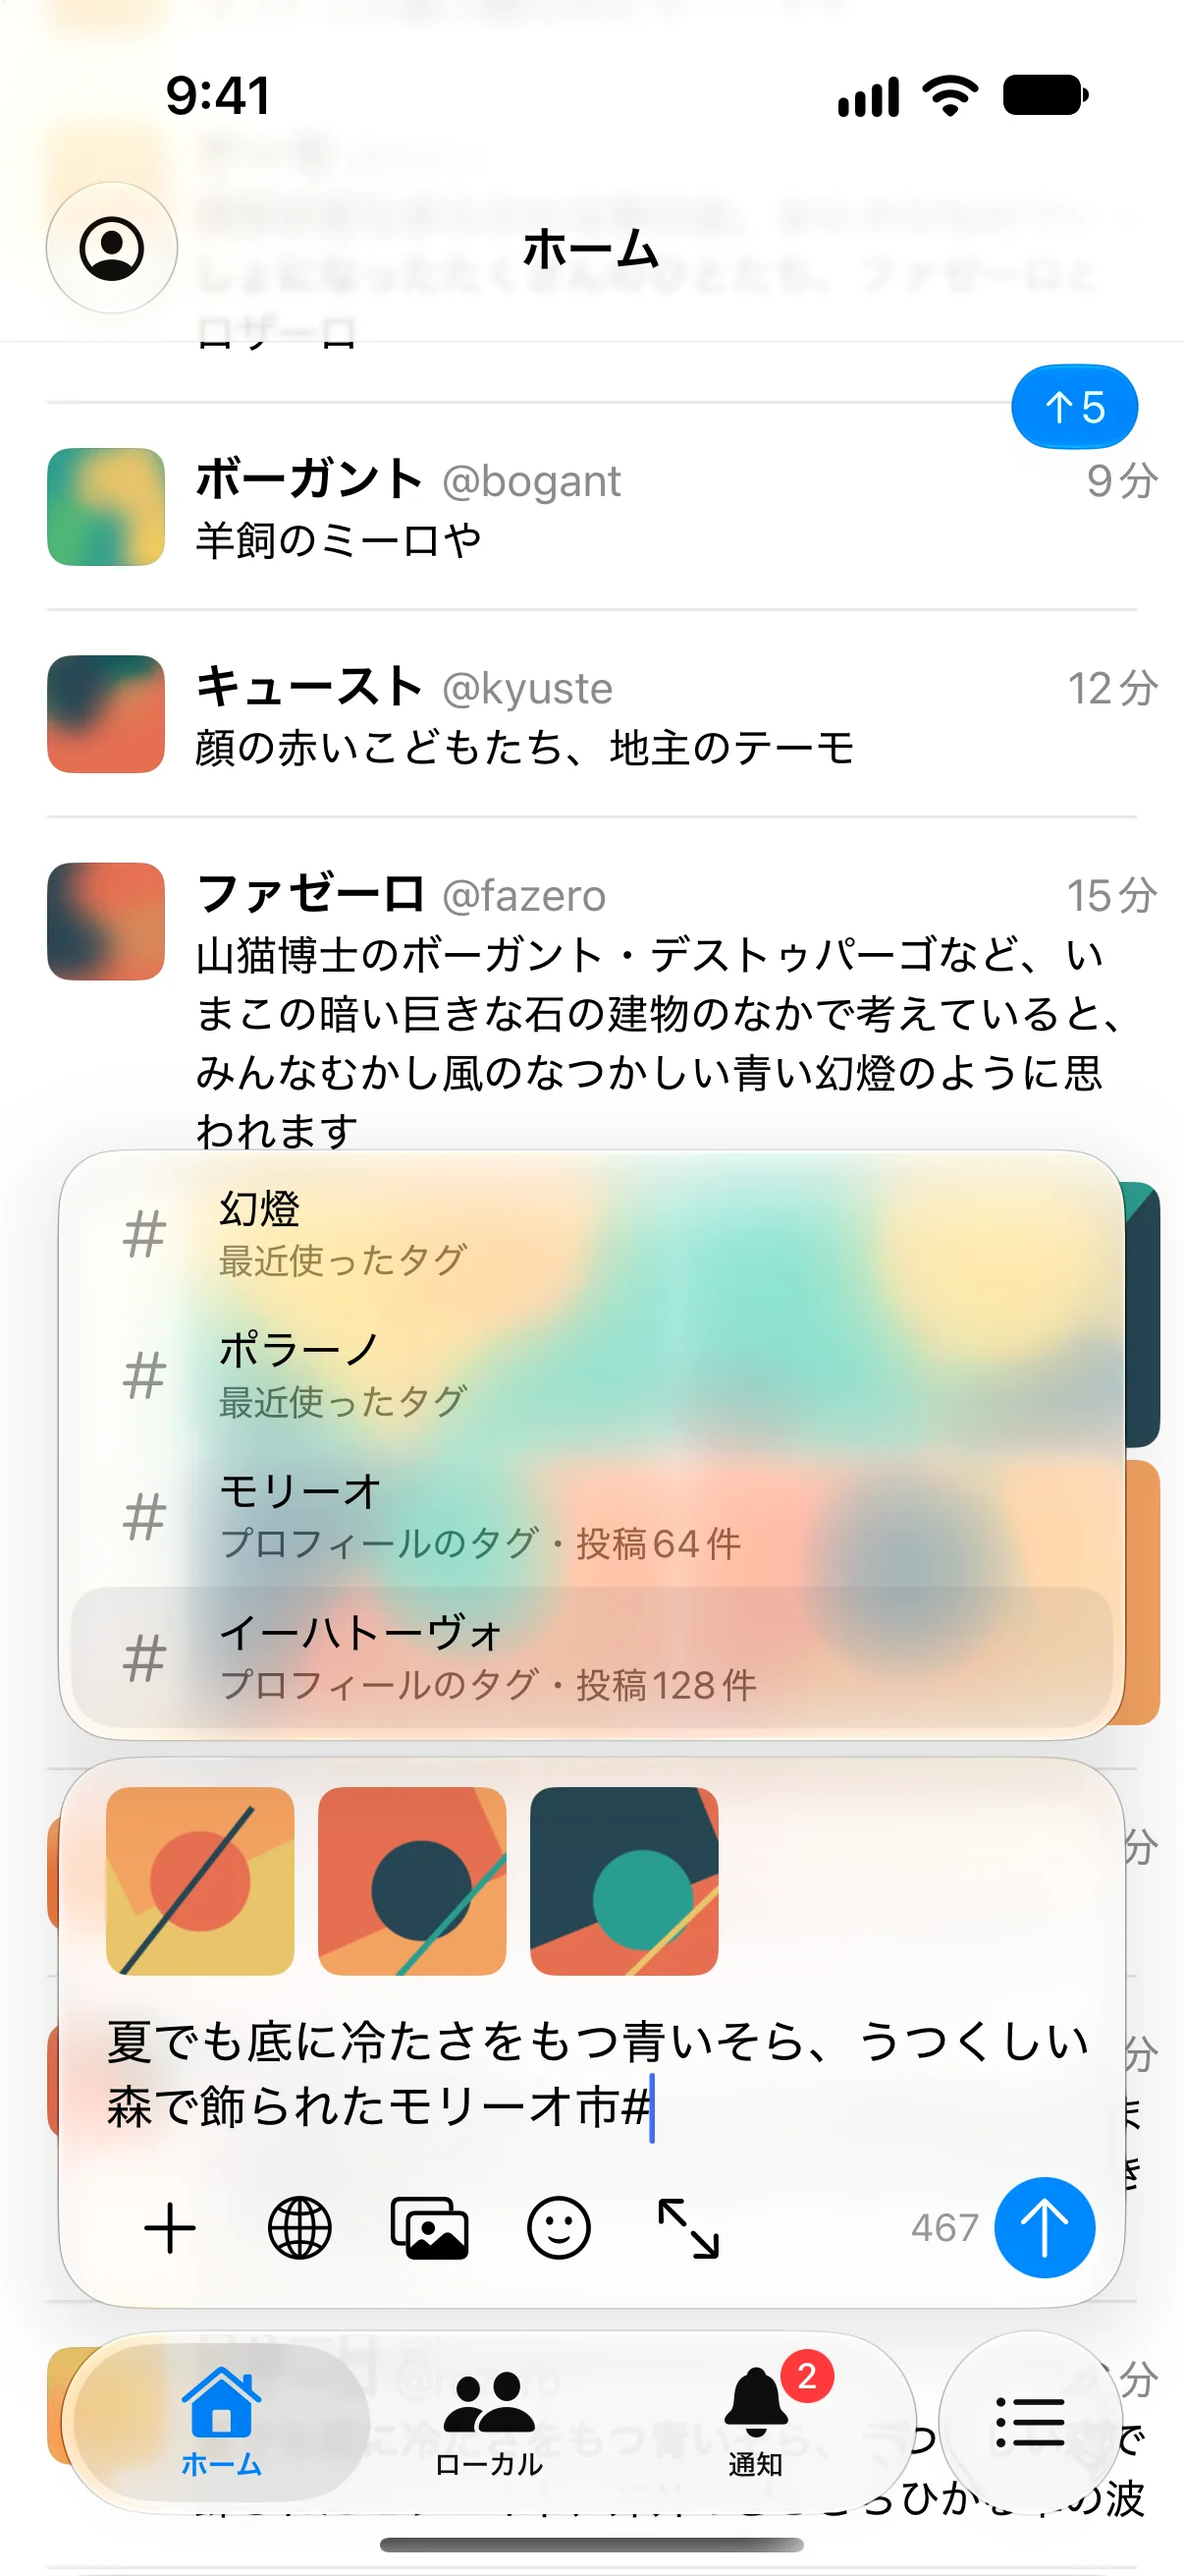
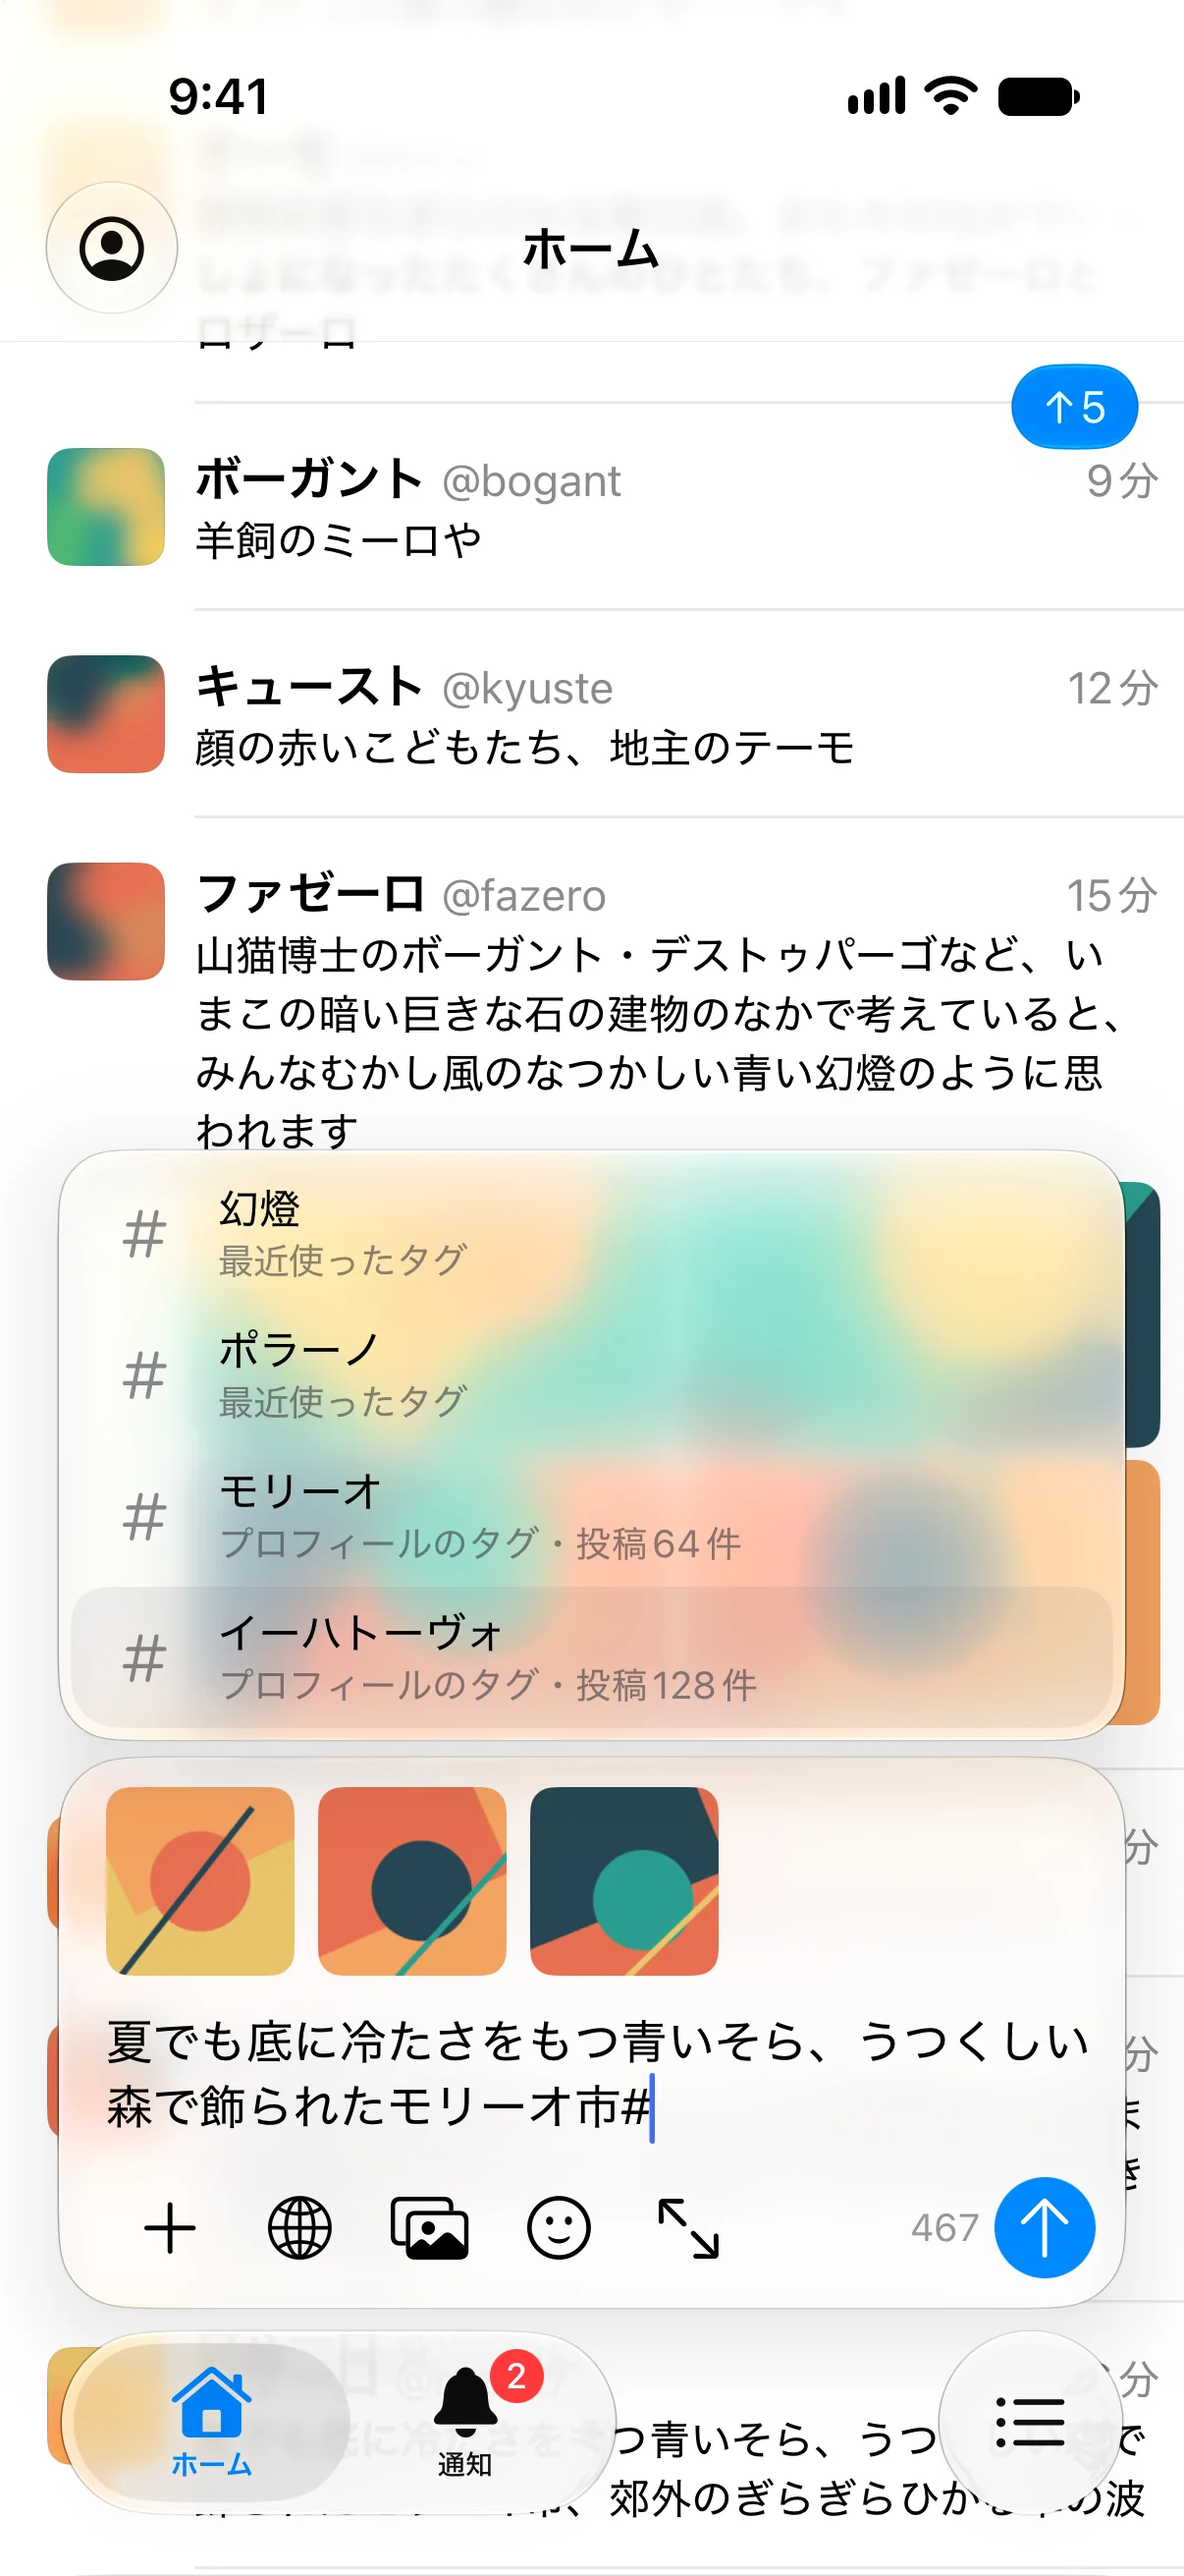
chore: READMEのスクリーンショットを今のmainで撮り直し、タブの並びからローカルを外す

diff --git a/App/Sources/Debug/Scenario/ReadmeScreenshotsScenario.swift b/App/Sources/Debug/Scenario/ReadmeScreenshotsScenario.swift
@@ -32,10 +32,9 @@ enum ReadmeScreenshotsScenario {
         let handle = base.credential.handle
         let list = list
         script.configure = { settings, _ in
-            // ホーム、ローカル、通知を並べ、連合とリストを右端の切り替えタブに入れる。切り替えタブはリストを開いておく。
+            // ホームと通知を並べ、連合とリストを右端の切り替えタブに入れる。切り替えタブはリストを開いておく。
             settings.setTabLayout(MenuLayout(elements: [
                 .item(.home, isVisible: true),
-                .item(.local, isVisible: true),
                 .item(.notifications, isVisible: true),
                 .more,
                 .item(.list(id: list.id, title: list.title), isVisible: true),

diff --git a/docs/promo-video.md b/docs/promo-video.md
@@ -47,7 +47,7 @@ make readme-screenshots SIM='<シミュレーターの名前>'
 
 投稿、通知、新着は「流れても、動かない」のものを使い、次を足す。
 
-- タブの並び: ホーム、ローカル、通知を並べ、リストと連合を右端の切り替えタブに入れる。通知の既読位置を一番新しい通知より前にして、通知のタブにバッジを出す
+- タブの並び: ホームと通知を並べ、リストと連合を右端の切り替えタブに入れる。通知の既読位置を一番新しい通知より前にして、通知のタブにバッジを出す
 - 下書き: `scia-debug://compose?text=...&media=3`と同じ経路で、シナリオの写真（`ScenarioScript.draftImages`）を添付する。シナリオからは、本文を長いパスで送らずに済むよう、`scenario/draft`のような名前で送り、アプリがデバッグURLの操作（`ScenarioScript.actions`）に引き直す
 - 添付の送信: 架空のサーバーが`POST api/v2/media`に、変換を終えた添付で答える（`ScenarioScript.postResponses`）
 - ハッシュタグの補完: `featured_tags`と`featured_tags/suggestions`に答える。`#`だけでは問い合わせずに手元の候補を出すので、検索には答えない
